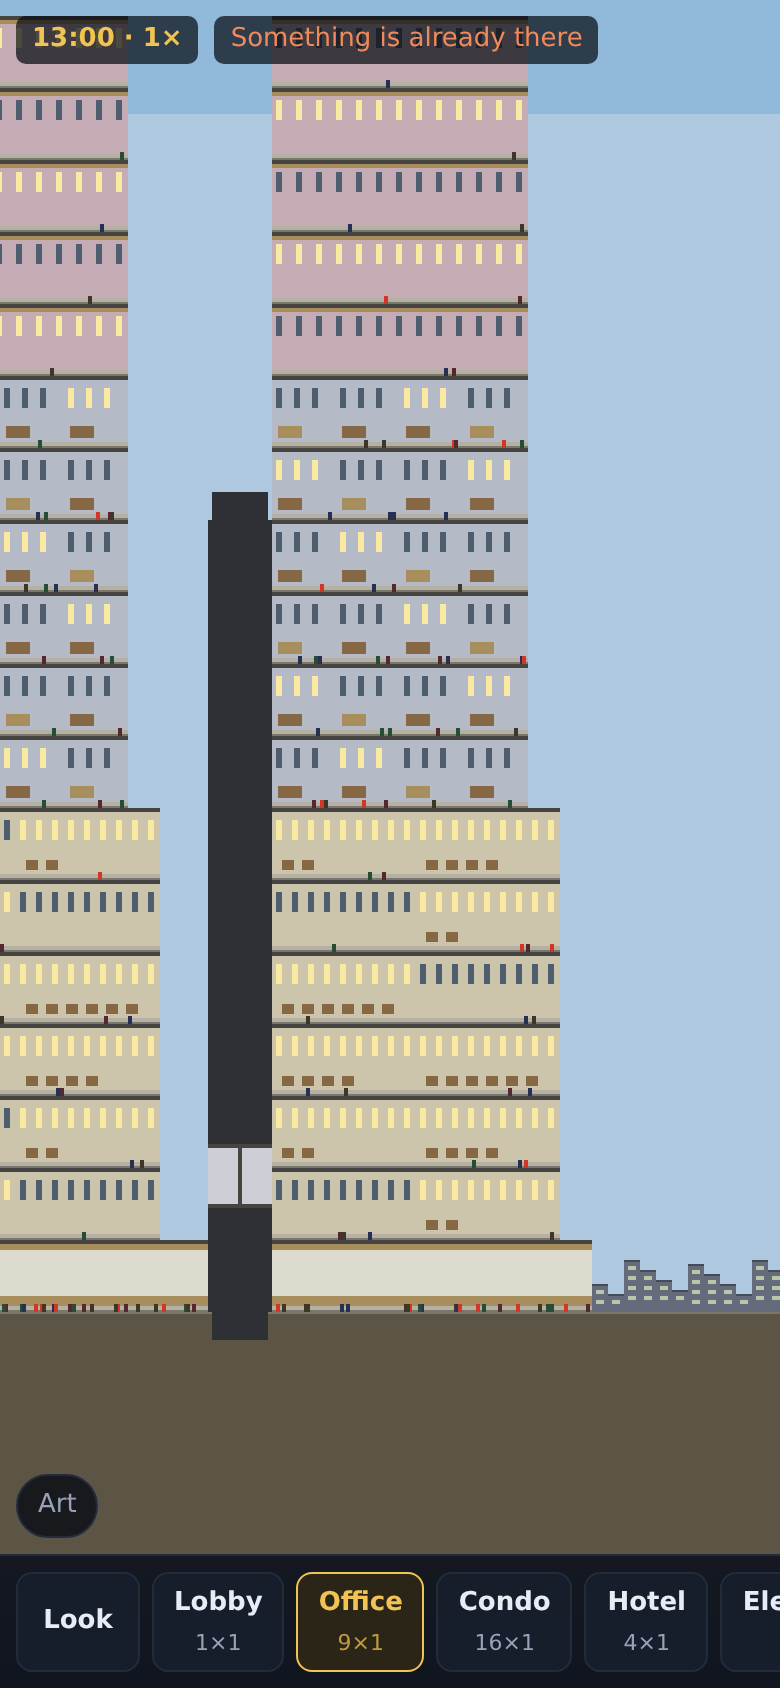
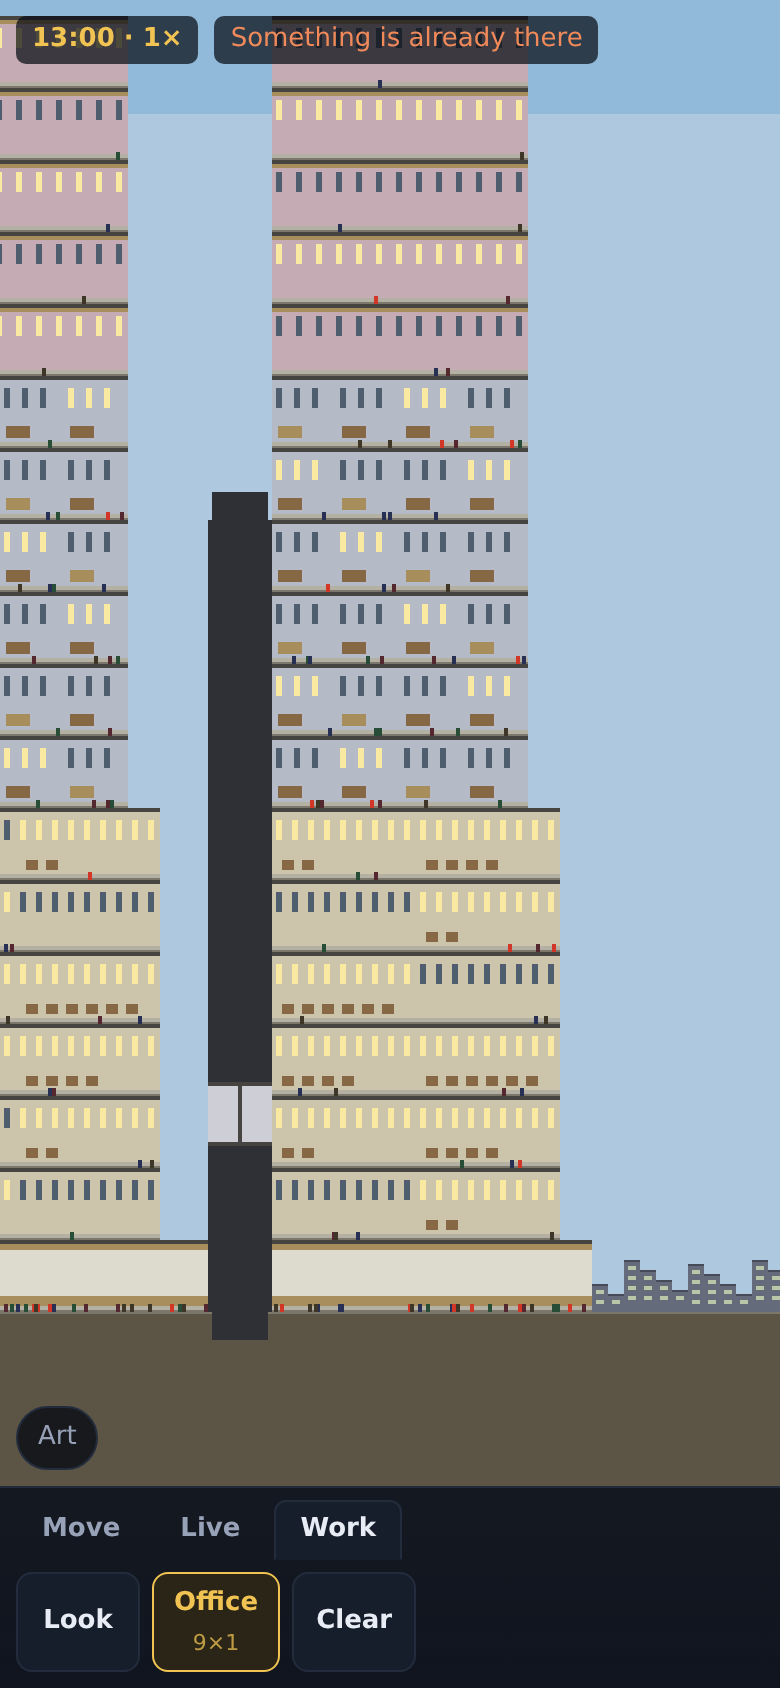
Group the build bar, before fifteen facilities land in it
A flat scrolling row was fine for six. The original's art covers roughly
fifteen, and at that length you stop knowing what is in the row — so the
facilities are grouped into Move / Live / Work / Play and the bar shows one
group at a time, with Look and Clear bracketing every drawer. Empty groups are
not rendered, so Play stays hidden until something is in it.

Every button is built once and hidden rather than rebuilt per drawer. A button
that comes and goes means a tool is only reachable when its drawer happens to
be open, which is a trap for anything driving the page from outside.

Three things the screenshot run caught that reading the diff would not have:

An author `display` beats the user agent's `[hidden] { display: none }`
whatever the specificity, so `.tool { display: flex }` kept the closed drawers'
buttons in the layout. The bar grew to 590px inside a 390px viewport and pushed
the art banner off the side of the screen.

`waitUntil: 'networkidle'` never settles here, because it waits on Chromium's
own background requests rather than on the page.

And a click with no timeout on a selector that no longer matches stalls the run
and leaves the previous run's screenshots in place — which reads as success
until you check the timestamps. Clicks now time out, and the browser closes in
a finally so a failure exits instead of hanging.

Claude-Session: https://claude.ai/code/session_011ej4SEqe3EDyyAxnu4d6fi

diff --git a/vertical-empire/scripts/verify-ui.ts b/vertical-empire/scripts/verify-ui.ts
@@ -8,7 +8,7 @@
  *
  * Run `npm run preview` first, or point VERIFY_URL somewhere else.
  */
-import { chromium } from 'playwright';
+import { chromium, type Browser } from 'playwright';
 import { mkdir } from 'node:fs/promises';
 
 const URL = process.env['VERIFY_URL'] ?? 'http://localhost:4173/';
@@ -20,6 +20,16 @@ const URL = process.env['VERIFY_URL'] ?? 'http://localhost:4173/';
 const EXECUTABLE = process.env['CHROMIUM_PATH'];
 const OUT = 'screenshots';
 
+/**
+ * Long enough for a slow machine, short enough to fail rather than hang.
+ *
+ * A selector that no longer matches — a button moved into a drawer, say — used
+ * to stall the whole run at Playwright's default of thirty seconds a click and
+ * leave half the screenshots stale from the previous run, which reads as "it
+ * worked" right up until you check the timestamps.
+ */
+const CLICK_TIMEOUT = 5_000;
+
 /** Portrait first, and a tablet to check the layout does not fall apart. */
 const VIEWPORTS = [
   { name: 'phone', width: 390, height: 844 },
@@ -30,6 +40,16 @@ const VIEWPORTS = [
 async function main(): Promise<void> {
   await mkdir(OUT, { recursive: true });
   const browser = await chromium.launch(EXECUTABLE ? { executablePath: EXECUTABLE } : {});
+  try {
+    await shoot(browser);
+  } finally {
+    // Without this a failed selector leaves Chromium running and the script
+    // never exits — which looks like a hang rather than the error it is.
+    await browser.close();
+  }
+}
+
+async function shoot(browser: Browser): Promise<void> {
   let failures = 0;
 
   for (const viewport of VIEWPORTS) {
@@ -41,11 +61,11 @@ async function main(): Promise<void> {
 
     // Pinned to the early afternoon: unpinned, the clock starts at midnight and
     // every shot would be of a dark tower.
-    await page.goto(`${URL}?hour=13`, { waitUntil: 'networkidle' });
+    await page.goto(`${URL}?hour=13`, { waitUntil: 'load' });
     // Two frames in, the canvas has been sized and the tower drawn.
     await page.waitForTimeout(400);
     // The notice sits over the tower, and the tower is what these shots are of.
-    await page.click('.art-collapse');
+    await page.click('.art-collapse', { timeout: CLICK_TIMEOUT });
 
     const canvas = await page.evaluate(() => {
       const element = document.querySelector<HTMLCanvasElement>('.stage');
@@ -98,9 +118,9 @@ async function main(): Promise<void> {
 
       // Panned to the edge of the block, where the tower stops and the street
       // the original stands it in is what there is to see.
-      await page.goto(`${URL}?hour=13`, { waitUntil: 'networkidle' });
+      await page.goto(`${URL}?hour=13`, { waitUntil: 'load' });
       await page.waitForTimeout(400);
-      await page.click('.art-collapse');
+      await page.click('.art-collapse', { timeout: CLICK_TIMEOUT });
       await page.mouse.move(300, 400);
       await page.mouse.down();
       await page.mouse.move(40, 400, { steps: 8 });
@@ -109,22 +129,24 @@ async function main(): Promise<void> {
       await page.screenshot({ path: `${OUT}/phone-street.png` });
 
       // Placing something, so the build bar and its feedback are in a shot.
-      await page.click('button[data-tool="build:office"]');
+      // Offices live in the Work drawer, so the drawer is opened first — which
+      // is what a player does, and keeps this honest about the taps involved.
+      await page.click('.tab >> text=Work', { timeout: CLICK_TIMEOUT });
+      await page.click('button[data-tool="build:office"]', { timeout: CLICK_TIMEOUT });
       await page.mouse.click(195, 420);
       await page.waitForTimeout(150);
       await page.screenshot({ path: `${OUT}/phone-building.png` });
 
       // Night, with the clock pinned so it does not mean waiting for night.
-      await page.goto(`${URL}?hour=22`, { waitUntil: 'networkidle' });
+      await page.goto(`${URL}?hour=22`, { waitUntil: 'load' });
       await page.waitForTimeout(400);
-      await page.click('.art-collapse');
+      await page.click('.art-collapse', { timeout: CLICK_TIMEOUT });
       await page.screenshot({ path: `${OUT}/phone-night.png` });
     }
 
     await page.close();
   }
 
-  await browser.close();
   if (failures > 0) {
     console.error(`\n${failures} problem${failures === 1 ? '' : 's'}.`);
     process.exitCode = 1;

diff --git a/vertical-empire/src/ui/shell.ts b/vertical-empire/src/ui/shell.ts
@@ -6,7 +6,7 @@
  * third, because that is what a thumb reaches.
  */
 
-import { FACILITIES, type Facility, type FacilityId } from '../world/facilities.js';
+import { CATEGORIES, FACILITIES, type Facility, type FacilityCategory, type FacilityId } from '../world/facilities.js';
 
 export type Tool = { kind: 'build'; id: FacilityId } | { kind: 'bulldoze' } | { kind: 'look' };
 
@@ -40,9 +40,15 @@ export function buildShell(root: HTMLElement): Shell {
   hud.append(clock, status);
   root.append(hud);
 
+  // Two rows: what you are doing, then what you can build while doing it.
+  const controls = document.createElement('div');
+  controls.className = 'controls';
+  const tabs = document.createElement('div');
+  tabs.className = 'tabs';
   const bar = document.createElement('div');
   bar.className = 'bar';
-  root.append(bar);
+  controls.append(tabs, bar);
+  root.append(controls);
 
   const toolHandlers: ((tool: Tool) => void)[] = [];
   const buttons = new Map<string, HTMLButtonElement>();
@@ -51,7 +57,7 @@ export function buildShell(root: HTMLElement): Shell {
     return tool.kind === 'build' ? `build:${tool.id}` : tool.kind;
   }
 
-  function addButton(tool: Tool, label: string, sub?: string): void {
+  function makeButton(tool: Tool, label: string, sub?: string): HTMLButtonElement {
     const button = document.createElement('button');
     button.className = 'tool';
     button.type = 'button';
@@ -64,17 +70,60 @@ export function buildShell(root: HTMLElement): Shell {
       for (const handler of toolHandlers) handler(tool);
     });
     buttons.set(toolKey(tool), button);
-    bar.append(button);
+    return button;
   }
 
-  addButton({ kind: 'look' }, 'Look');
-  for (const item of FACILITIES) addButton({ kind: 'build', id: item.id }, item.label, width(item));
-  addButton({ kind: 'bulldoze' }, 'Clear');
+  // Only groups that have something in them: a drawer that opens onto nothing
+  // is worse than no drawer.
+  const drawers = CATEGORIES.filter((category) => FACILITIES.some((item) => item.category === category.id));
+
+  // Every button is built once and stays in the page; opening a drawer hides
+  // the others rather than rebuilding the row. Buttons that came and went would
+  // mean a tool is only clickable when its drawer happens to be open, which is
+  // a trap for anything driving this from outside — the screenshot script picks
+  // `button[data-tool="build:office"]` straight out of the page.
+  bar.append(makeButton({ kind: 'look' }, 'Look'));
+  for (const item of FACILITIES) {
+    const button = makeButton({ kind: 'build', id: item.id }, item.label, width(item));
+    button.dataset['category'] = item.category;
+    bar.append(button);
+  }
+  // Look and Clear bracket the row in every drawer: neither belongs to one.
+  bar.append(makeButton({ kind: 'bulldoze' }, 'Clear'));
+
+  const tabButtons = new Map<FacilityCategory, HTMLButtonElement>();
+
+  function showDrawer(id: FacilityCategory): void {
+    for (const [name, button] of tabButtons) button.classList.toggle('is-open', name === id);
+    for (const button of buttons.values()) {
+      const category = button.dataset['category'];
+      if (category) button.hidden = category !== id;
+    }
+  }
+
+  for (const drawer of drawers) {
+    const tab = document.createElement('button');
+    tab.type = 'button';
+    tab.className = 'tab';
+    tab.textContent = drawer.label;
+    tab.addEventListener('click', () => showDrawer(drawer.id));
+    tabButtons.set(drawer.id, tab);
+    tabs.append(tab);
+  }
 
   function setTool(tool: Tool): void {
     const key = toolKey(tool);
     for (const [name, button] of buttons) button.classList.toggle('is-active', name === key);
+    // Choosing a facility from outside the open drawer opens the drawer holding
+    // it, so the highlighted tool is always one you can see.
+    if (tool.kind === 'build') {
+      const home = FACILITIES.find((item) => item.id === tool.id)?.category;
+      if (home) showDrawer(home);
+    }
   }
+
+  const firstDrawer = drawers[0]?.id;
+  if (firstDrawer) showDrawer(firstDrawer);
   setTool({ kind: 'look' });
 
   // --- where the art comes from ---------------------------------------------

diff --git a/vertical-empire/src/world/facilities.ts b/vertical-empire/src/world/facilities.ts
@@ -10,9 +10,27 @@
 
 export type FacilityId = 'lobby' | 'office' | 'condo' | 'hotel' | 'elevator' | 'stairs';
 
+/**
+ * Which drawer of the build bar a facility lives in.
+ *
+ * A flat row of buttons was fine for six. The original's art covers roughly
+ * fifteen, which on a 390px screen is a scroll long enough that you stop
+ * knowing what is in it — so they are grouped, and the bar shows one group at
+ * a time.
+ */
+export type FacilityCategory = 'move' | 'live' | 'work' | 'play';
+
+export const CATEGORIES: readonly { id: FacilityCategory; label: string }[] = [
+  { id: 'move', label: 'Move' },
+  { id: 'live', label: 'Live' },
+  { id: 'work', label: 'Work' },
+  { id: 'play', label: 'Play' },
+];
+
 export interface Facility {
   id: FacilityId;
   label: string;
+  category: FacilityCategory;
   /** Key into the atlas. */
   sprite: string;
   /** Width in segments. */
@@ -31,13 +49,13 @@ export interface Facility {
 }
 
 export const FACILITIES: readonly Facility[] = [
-  { id: 'lobby', label: 'Lobby', sprite: 'lobby', width: 1, cost: 5_000, placement: 'lobby-levels', transport: false, tiled: true },
-  { id: 'office', label: 'Office', sprite: 'office', width: 9, cost: 40_000, placement: 'anywhere', transport: false },
-  { id: 'condo', label: 'Condo', sprite: 'condo', width: 16, cost: 200_000, placement: 'anywhere', transport: false },
-  { id: 'hotel', label: 'Hotel', sprite: 'hotel', width: 4, cost: 20_000, placement: 'anywhere', transport: false },
-  { id: 'elevator', label: 'Elevator', sprite: 'elevator', width: 4, cost: 100_000, placement: 'anywhere', transport: true },
+  { id: 'lobby', label: 'Lobby', category: 'move', sprite: 'lobby', width: 1, cost: 5_000, placement: 'lobby-levels', transport: false, tiled: true },
+  { id: 'elevator', label: 'Elevator', category: 'move', sprite: 'elevator', width: 4, cost: 100_000, placement: 'anywhere', transport: true },
   // Eight segments, from the 448px sheet dividing into seven states.
-  { id: 'stairs', label: 'Stairs', sprite: 'stairs', width: 8, cost: 5_000, placement: 'anywhere', transport: true },
+  { id: 'stairs', label: 'Stairs', category: 'move', sprite: 'stairs', width: 8, cost: 5_000, placement: 'anywhere', transport: true },
+  { id: 'condo', label: 'Condo', category: 'live', sprite: 'condo', width: 16, cost: 200_000, placement: 'anywhere', transport: false },
+  { id: 'hotel', label: 'Hotel', category: 'live', sprite: 'hotel', width: 4, cost: 20_000, placement: 'anywhere', transport: false },
+  { id: 'office', label: 'Office', category: 'work', sprite: 'office', width: 9, cost: 40_000, placement: 'anywhere', transport: false },
 ];
 
 const BY_ID = new Map(FACILITIES.map((facility) => [facility.id, facility]));

diff --git a/vertical-empire/src/styles/base.css b/vertical-empire/src/styles/base.css
@@ -87,15 +87,47 @@ body {
 
 /* --- build bar -------------------------------------------------------- */
 
-.bar {
+.controls {
   grid-row: 2;
   grid-column: 1;
   z-index: 2;
-  display: flex;
-  gap: 6px;
-  padding: 8px 8px calc(env(safe-area-inset-bottom, 0px) + 8px);
+  padding-bottom: env(safe-area-inset-bottom, 0px);
   background: linear-gradient(to top, var(--chrome), rgb(16 21 31 / 0.94));
   border-top: 1px solid var(--chrome-edge);
+}
+
+/* Which drawer is open. Small, because it is a label rather than a target you
+   aim at mid-build — the facilities below it are the things you tap. */
+.tabs {
+  display: flex;
+  gap: 4px;
+  padding: 6px 8px 0;
+}
+
+.tab {
+  flex: 0 0 auto;
+  min-height: 30px;
+  padding: 4px 12px;
+  border: 1px solid transparent;
+  border-radius: 6px 6px 0 0;
+  background: none;
+  color: var(--ink-dim);
+  font: inherit;
+  font-weight: 600;
+  cursor: pointer;
+}
+
+.tab.is-open {
+  border-color: var(--chrome-edge);
+  border-bottom-color: transparent;
+  background: #171e2b;
+  color: var(--ink);
+}
+
+.bar {
+  display: flex;
+  gap: 6px;
+  padding: 6px 8px 8px;
   overflow-x: auto;
   scrollbar-width: none;
 }
@@ -122,6 +154,13 @@ body {
   color: var(--ink);
   font: inherit;
   cursor: pointer;
+}
+
+/* An author `display` beats the user agent's `[hidden] { display: none }`
+   whatever the specificity, so a hidden button in the closed drawers kept its
+   place in the row and pushed the layout wider than the screen. */
+.tool[hidden] {
+  display: none;
 }
 
 .tool.is-active {
